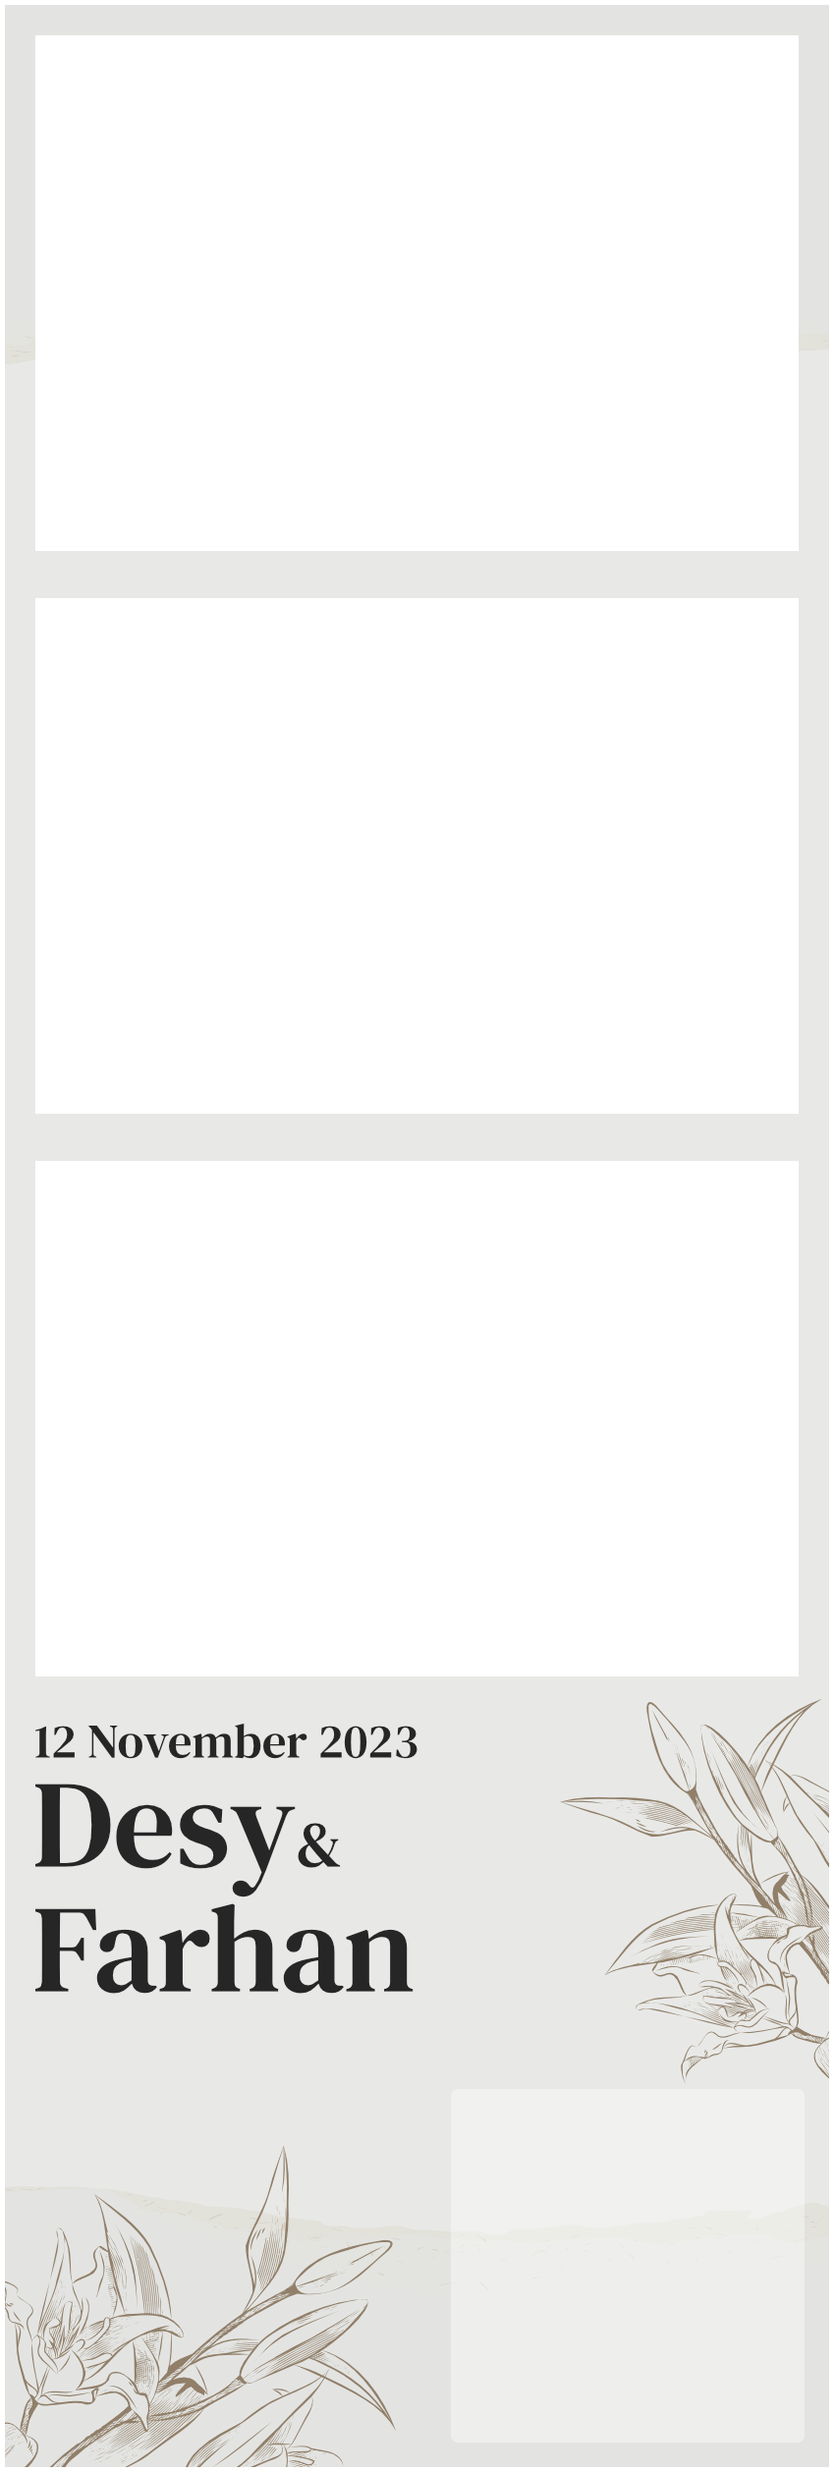
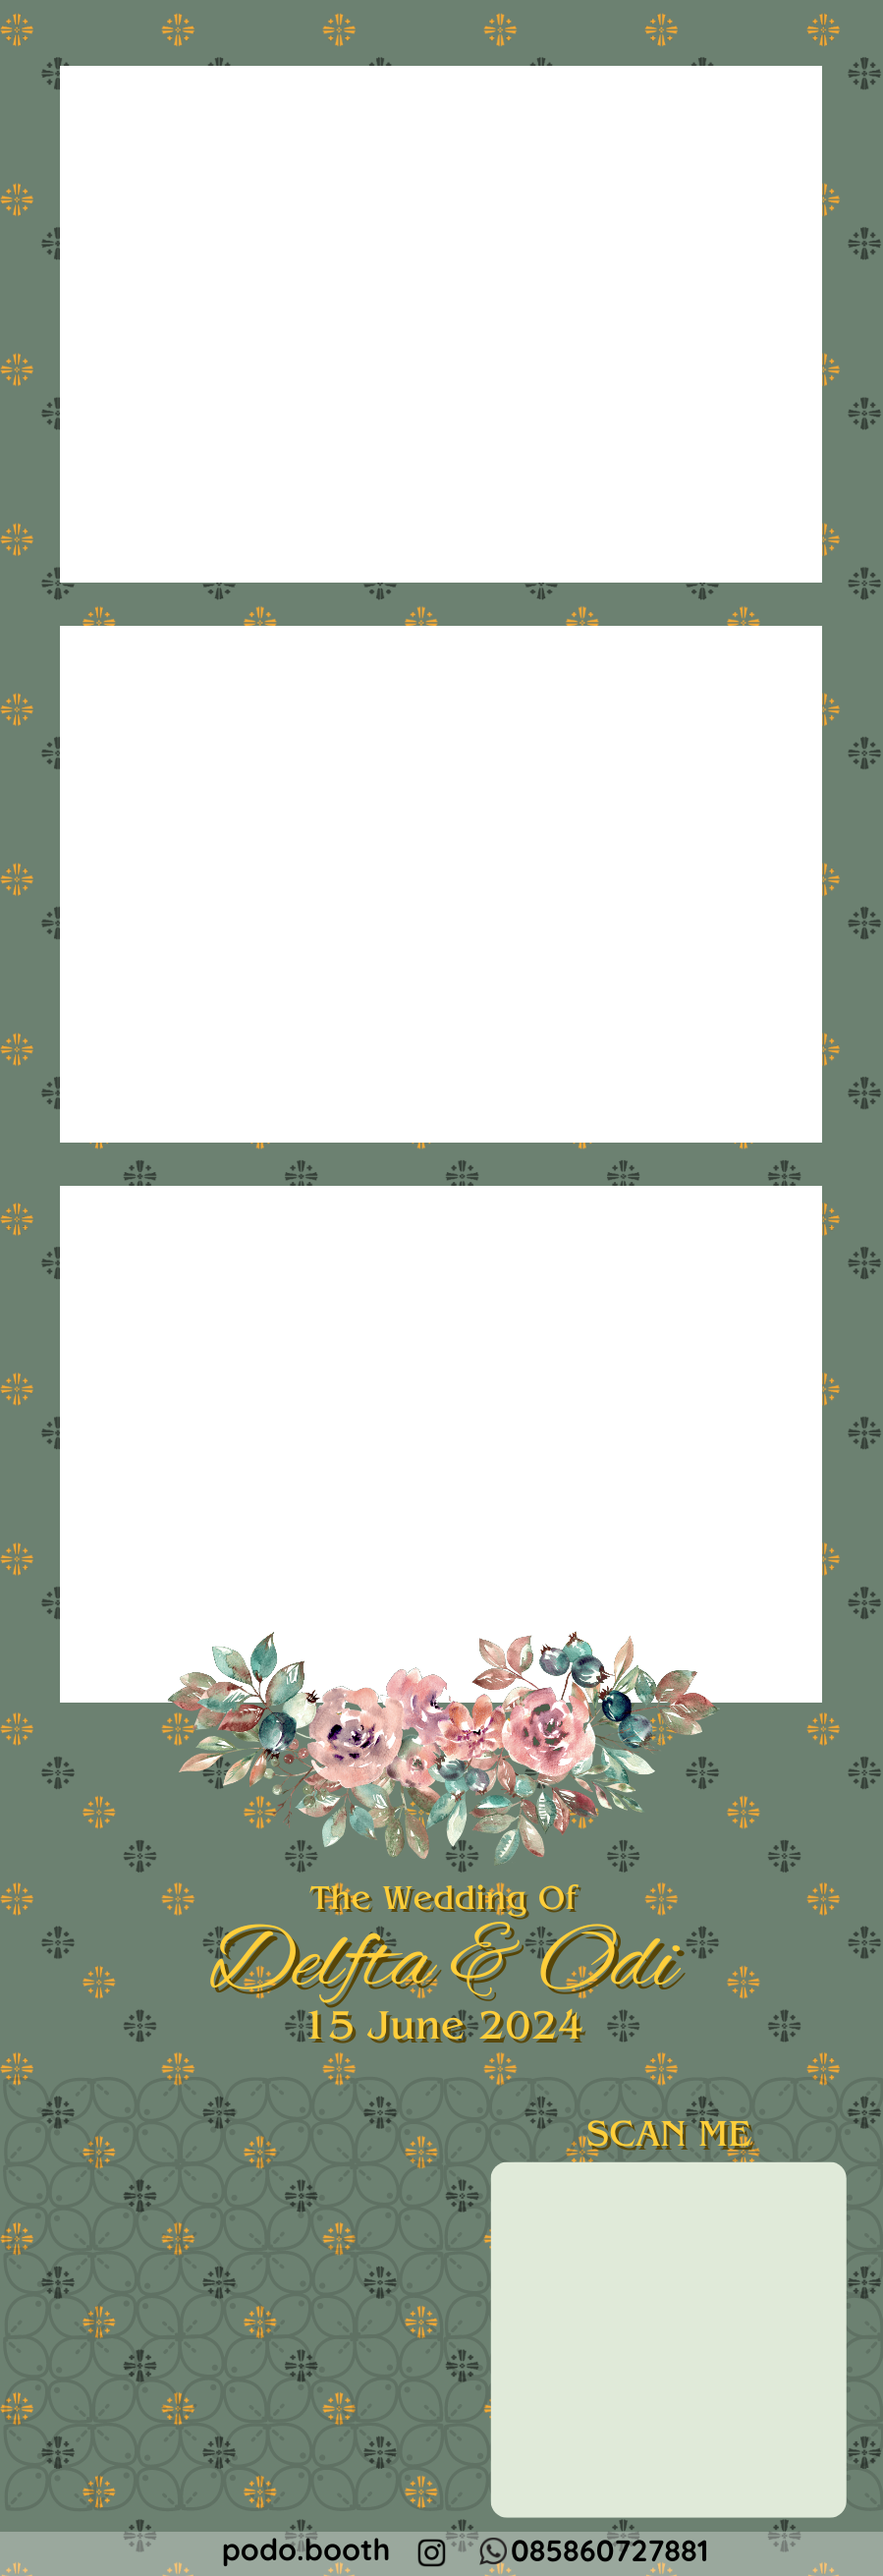
Capture Fixes, Adjust Print
fix black bars
fix issue didnt match the preview
fix issue photo can be cropped depending on window size

diff --git a/public/assets/css/app.css b/public/assets/css/app.css
@@ -234,7 +234,9 @@ h2 {
 
 .ratio__f4 {
     /* aspect-ratio: 33/21; */
-    aspect-ratio: 777/525;
+    /* aspect-ratio: 777/525; */
+    /* aspect-ratio: 858/581; */
+    aspect-ratio: 776/526;
 }
 .ratio__f4_portait {
     aspect-ratio: 21/33;

diff --git a/resources/views/pages/photo/capture.blade.php b/resources/views/pages/photo/capture.blade.php
@@ -37,7 +37,8 @@
         <div id="step-1" class="row align-items-center h-100">
             <div class="col-12 col-lg-9 p-5">
                 <div class="ratio__f4 d-block rounded overflow-hidden mb-3" style="background-color: rgba(165, 42, 42, 0.548)">
-                    <video id="video" class="w-100 h-auto">Video stream not available.</video>
+                    {{-- <video id="video" class="h-100 ratio__f4" style="margin-left: -7.5%">Video stream not available.</video> --}}
+                    <video id="video" class="ratio__f4" style="margin-left: -10.5%; width: 121%;">Video stream not available.</video>
                 </div>
                 {{-- <video id="video" class="ratio__f4 d-block rounded w-100 mb-3" style=" background-color: rgba(165, 42, 42, 0.548)">Video stream not available.</video> --}}
                 <div class="d-block m-auto" style="width: fit-content;">
@@ -76,7 +77,7 @@
         </div>
         <div id="step-2" class="row align-items-center h-100" style="display: none;">
             <div class="col-2 fs-1 text-end" onclick="prevCollage();" style="padding: 240px 0">
-                <button class="btn btn-info rounded-pill fs-2 text-white" style="width: 62px; height 62px;">
+                <button class="btn btn-info rounded-pill fs-2 text-white" style="display: none; width: 62px; height 62px;">
                     <i class="fa-solid fa-chevron-left"></i>
                 </button>
             </div>
@@ -97,7 +98,7 @@
                 </form>
             </div>
             <div class="col-2 fs-1 text-start text-start" onclick="nextCollage();" style="padding: 240px 0">
-                <button class="btn btn-info rounded-pill fs-2 text-white" style="width: 62px; height 62px;">
+                <button class="btn btn-info rounded-pill fs-2 text-white" style="display: none; width: 62px; height 62px;">
                     <i class="fa-solid fa-chevron-right"></i>
                 </button>
             </div>
@@ -227,9 +228,9 @@
         }
     }
 
-    var width = 972; // We will scale the photo width to this
+    var width = 972; //!! OF ELEMENT - CAN BE DYNAMICLY CHANGED!! FOR RATIO PURPOSE ONLY!! We will scale the photo width to this
     // var camera_ratio = (9/16)
-    let height = null; // This will be computed based on the input stream
+    let height = null; //!! OF ELEMENT - CAN BE DYNAMICLY CHANGED!! FOR RATIO PURPOSE ONLY!! This will be computed based on the input stream
     let streaming = false;
 
     let video = null;
@@ -244,20 +245,16 @@
     // F
     let canvascollage = null;
     // let ratio = (33 / 21); //ratio of the frame
-    var ratio = (33 / 21); //ratio of the video
+    var ratio = (33 / 21); //ratio of the video without blackbars
     // var ratioFile = (33 / 21); //ratio of the File
-    var ratioFile = (777/ 525); //ratio of the File
+    var ratioFile = (776/ 526); //ratio of the File
     const defaultPos = [
-        [36, 36, 777, 525],
-        [36, 609, 777, 525],
-        [36, 1182, 777, 525],
+        [61, 67 , 776 , 526],
+        [61, 637, 776, 526],
+        [61, 1207, 776, 526],
     ]; //x, y, w, h
     const collageArray = [
         ["1.png", null],
-        ["2.png", null],
-        ["3.png", null],
-        ["4.png", null],
-        ["5.png", null],
     ];
     var collageIndex = 0;
 
@@ -296,8 +293,10 @@
                 console.log("canplay", height);
                 video.setAttribute("width", width);
                 video.setAttribute("height", height);
-                canvas.setAttribute("width", height / ratioFile);
-                canvas.setAttribute("height", height);
+                let vHeight = $(video)[0].videoHeight; //with black bars
+                let vWidth = $(video)[0].videoWidth; //with blackbars
+                canvas.setAttribute("width", vHeight * ratioFile);
+                canvas.setAttribute("height", vHeight);
                 streaming = true;
             },
             false,
@@ -313,16 +312,18 @@
         const context = canvas.getContext("2d");
         console.log("takepicture", width, height);
         if (width && height) { //if camera active
-            let vHeight = $(video).height();
-            let vWidth = $(video).width();
+            let vHeight = $(video)[0].videoHeight; //with black bars
+            let vWidth = $(video)[0].videoWidth; //with blackbars
+            console.log("vWidth >" + vHeight);
+            console.log("vWidth >" + vHeight);
             let vCorrectWidth = vHeight * ratioFile;
             let difference =  vWidth - vCorrectWidth;
-            let xStart = (difference*2);
+            let xStart = (difference/2);
             // let xEnd = vWidth - (difference/2);
             canvas.width = vCorrectWidth;
             canvas.height = vHeight;
-            // console.log("PRABOWO", vCorrectWidth, vHeight, "TARGET", width, height );
-            // console.log("PRABOWO", video);
+            // console.log("vCorrectWidth", vCorrectWidth, vHeight, "TARGET", width, height );
+            // console.log("video", video);
             // drawImage(image, sx, sy, sWidth, sHeight, dx, dy, dWidth, dHeight)
             // context.drawImage(video, 0, 0, width, height);
             context.drawImage(video, xStart, 0, vCorrectWidth, vHeight, 0, 0, canvas.width, canvas.height);
@@ -368,8 +369,10 @@
         const collageContext = canvascollage.getContext("2d");
         canvascollage.width = bgImages[collageIndex].width;
         canvascollage.height = bgImages[collageIndex].height;
+        collageContext.globalAlpha = 0.0;
         collageContext.fillStyle = "white";
         collageContext.fillRect(0, 0, canvascollage.width, canvascollage.height);
+        collageContext.globalAlpha = 1;
     }
 
 
@@ -434,7 +437,7 @@
         await drawPhotos();
         await drawForeground();
         const collageContext = canvascollage.getContext("2d");
-        const data = canvascollage.toDataURL('image/jpeg', 0.95);
+        const data = canvascollage.toDataURL('image/png');
         $("#image-main>img").attr("src", data);
         $("#main_photo").val(data);
         $("#image-main").removeClass("hidden");

diff --git a/app/Console/Commands/PhotoPrint.php b/app/Console/Commands/PhotoPrint.php
@@ -6,6 +6,7 @@ use App\Models\PendingPrint;
 use App\Models\Photo;
 use Illuminate\Console\Command;
 use Illuminate\Support\Facades\Storage;
+use Intervention\Image\Drivers\Gd\Font;
 use Intervention\Image\ImageManager;
 
 class PhotoPrint extends Command
@@ -59,25 +60,48 @@ class PhotoPrint extends Command
         }
 
         try {
-            $wGutter = 300;
-            $images = Photo::whereIn('id', array($pending->first_id, $pending->second_id))->get();
+            $wGutter = 300; //!!DONTCHANGE 300
+            $images = Photo::with('tuser')->whereIn('id', array($pending->first_id, $pending->second_id))->get();
             // $this->line($images[0]->getRelativePath() . $images[1]->getRelativePath());
 
             $manager = new ImageManager(['driver' => 'gd']);
             $mainImage = $manager->read($images[0]->getRealPath());
             $secondImage = $manager->read($images[1]->getRealPath());
+            $mainCode = $images[0]->tuser->code;
+            $secondCode = $images[0]->tuser->code;
+
+            $fontPath = base_path().'/public/assets/vendor/google/static/Urbanist-Medium.ttf';
+
             // $this->line($mainImage->getHeight() . $secondImage->getHeight());
 
-            $w = $mainImage->getWidth() + $secondImage->getWidth() + $wGutter;
-            $h = max($mainImage->getHeight(), $secondImage->getHeight() + $wGutter);
+            // $w = $mainImage->getWidth() + $secondImage->getWidth() + $wGutter;
+            // $h = max($mainImage->getHeight(), $secondImage->getHeight() + $wGutter);
 
-            $mergedImage = $manager->create($w, $h);
-            $mergedImage = $mergedImage->fill('#FFFFFF', 10, 10);
+            // $mergedImage = $manager->create($w, $h);
+            // $mergedImage = $mergedImage->fill('#FFFFFF', 10, 10);
 
-            $mergedImage->place($mainImage, 'top-left', ($wGutter/2), ($wGutter/2));
-            $mergedImage->place($secondImage, 'top-right', ($wGutter/2), ($wGutter/2));
+            $mergedImage = $manager->read(base_path().'/public/assets/images/print-background.png');
+
+            $mergedImage->place($mainImage, 'top-right', ($mergedImage->getWidth()/2)+8, ($mergedImage->getHeight()/2) - ($mainImage->getHeight()/2) + 8); //Yadjusted
+            $mergedImage->place($secondImage, 'top-left', ($mergedImage->getWidth()/2)-8, ($mergedImage->getHeight()/2) - ($secondImage->getHeight()/2) + 8); //Yadjusted
             // $mergedImage->resizeCanvas(200,  0, 'center', true);
-            $mergedImage->scale($mergedImage->getWidth() - 200);
+
+            // write text to image
+            $mergedImage->text($mainCode, ($wGutter/2)+28, 97, function ($font) {
+                $font->filename( base_path().'/public/assets/vendor/google/static/Urbanist-Medium.ttf');
+                $font->size(56);
+                $font->align('left');
+                $font->valign('bottom');
+            });
+
+            $mergedImage->text($secondCode, ($mergedImage->getWidth()/2)+48, 97, function (Font $font) {
+                $font->filename( base_path().'/public/assets/vendor/google/static/Urbanist-Medium.ttf');
+                $font->size(56);
+                $font->align('left');
+                $font->valign('bottom');
+            });
+
+            $mergedImage->scale($mergedImage->getWidth() - 236); //!! ENABLE ON PROD - Final Adjustment Disable for test scale
 
             $filenamemerge = $pending->id . "_" . time() . '.jpg';
 
@@ -94,7 +118,8 @@ class PhotoPrint extends Command
             $this->line("MERGE OK");
             $this->line("PRINTING...");
             if (strtoupper(substr(PHP_OS, 0, 3)) === 'WIN') {
-                exec('rundll32 C:\WINDOWS\system32\shimgvw.dll,ImageView_PrintTo "'.$savePath.'" "'.env('PRINTER_NAME').'"');
+                exec('rundll32 C:\WINDOWS\system32\shimgvw.dll,ImageView_PrintTo "'.$savePath.'" "'.env('PRINTER_NAME').'"'); //!! ENABLE ON PROD Disable for testing merge
+
                 // exec('"C:\Program Files\IrfanView\i_view64.exe" "'.$savePath.'" /print="'.env('PRINTER_NAME').'"');
                 // exec('mspaint /pt "'.$savePath.'" "'.env('PRINTER_NAME').'"');
                 $this->line("PRINTING CALLED");

diff --git a/app/Http/Controllers/PhotoController.php b/app/Http/Controllers/PhotoController.php
@@ -35,7 +35,7 @@ class PhotoController extends Controller
             'raw' => 'required'
         ]);
 
-        $imgUrl = env("MASTER_APP_URL",'') . "/gallery/viewer?folder_id=" . $uid . "&filename=" . urlencode($photo_filename . "." . $photo_ext);
+        $imgUrl = env("MASTER_APP_URL",'') . "/gallery/viewer?folder_id=" . $uid . "&filename=" . urlencode($photo_filename . "." . $photo_ext); //!!
         $qrBase64 = (new QRCode)->render($imgUrl);
 
         try {
@@ -46,8 +46,8 @@ class PhotoController extends Controller
 
             if (env('PRINT_QR', false) && !empty(env("MASTER_APP_URL",null))) {
                 $imgQR = $manager->read($qrBase64);
-                $imgQR->scale(height: 360);
-                $imgImage->place($imgQR, 'top-left', 459, 2127);
+                $imgQR->scale(height: 362);
+                $imgImage->place($imgQR, 'top-left', 498, 2199);
             }
 
             // $imgImage->toJpeg(100)->save(storage_path("app/public/photos/{$uid}/" . $photo_filename . "." . $photo_ext));

diff --git a/resources/views/pages/gallery/index.blade.php b/resources/views/pages/gallery/index.blade.php
@@ -40,9 +40,9 @@
                 <div class="gl-photo-frame col" data-photo_id="{{$photo->id}}" data-details-url="{{$photo->qr_url}}">
                     <div class="gl-photo" style="transform: rotate({{rand(0,6)-3}}deg)">
                         @if (count($photo->raws) > 0)
-                            <img src="{{asset('storage/'.$folder.'/small\/'.$photo->raws[0])}}" alt="">
+                            <img src="{{asset('storage/'.$folder."/small/".$photo->raws[0])}}" alt="">
                         @else
-                            <img src="{{asset('storage/'.$folder.'/small\/'.$photo->filename)}}" alt="">
+                            <img src="{{asset('storage/'.$folder."/small/".$photo->filename)}}" alt="">
                         @endif
                     </div>
                 </div>
